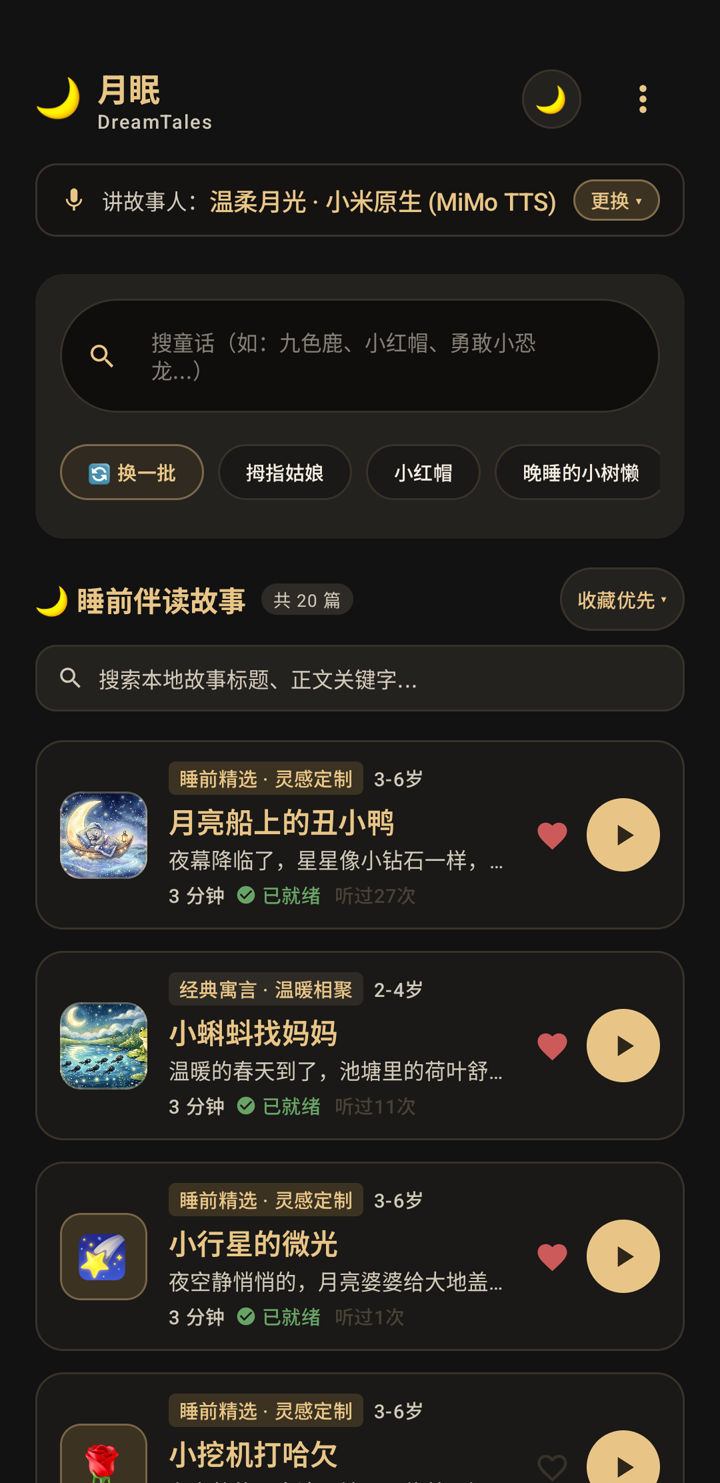
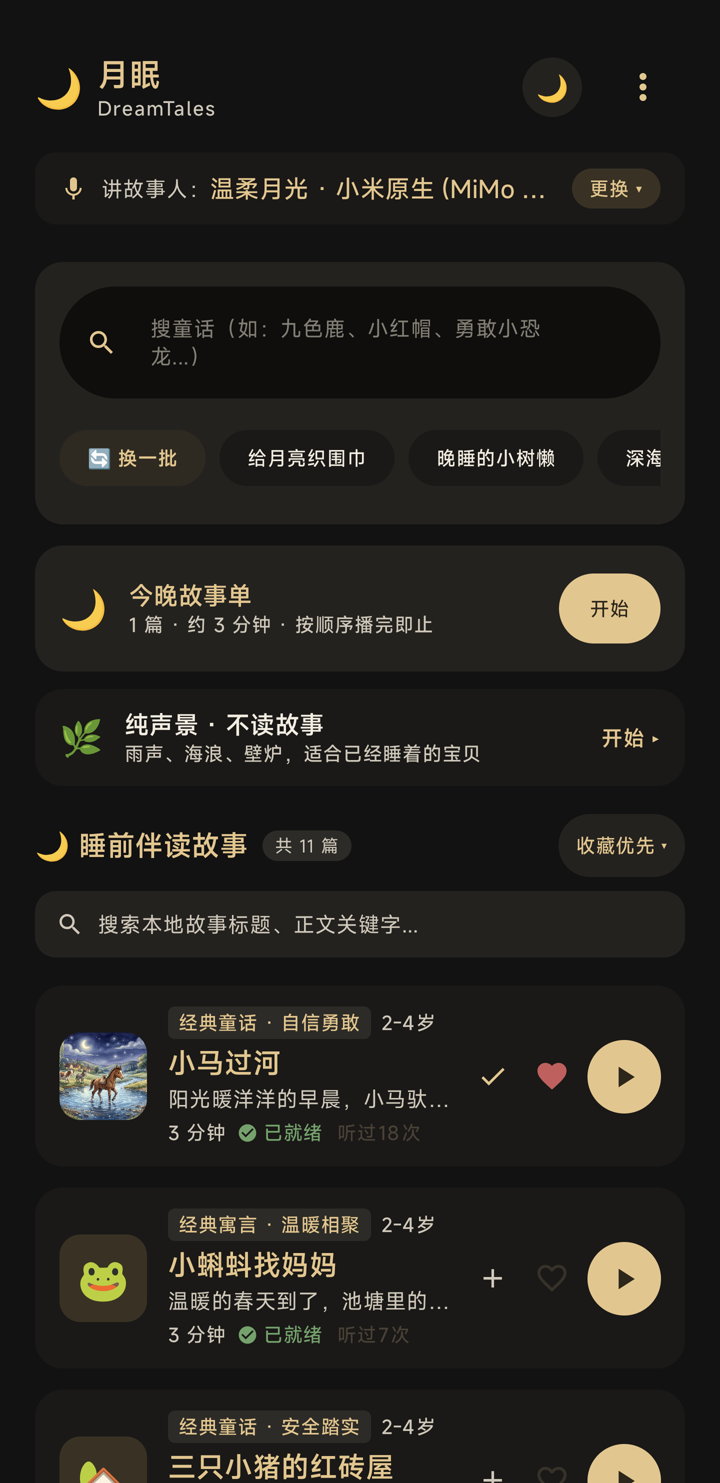
release: prepare 2.2.1 flat UI refresh
- bump version to 2.2.1 (14)
- remove card, chip, pill, button and search-field outlines app-wide
- update day/night home, player and about screenshots
- refresh README image cache bust

diff --git a/README.md b/README.md
@@ -1,6 +1,6 @@
 <div align="center">
 
-<img src="docs/images/splash.png?v=217" width="190" alt="月眠开屏" />
+<img src="docs/images/splash.png?v=221" width="190" alt="月眠开屏" />
 
 # 🌙 月眠 DreamTales
 
@@ -30,7 +30,7 @@
 
 | 首页 · 暖夜 | 首页 · 绘本米黄 | 沉浸式播放 | 关于 |
 | :---: | :---: | :---: | :---: |
-| <img src="docs/images/home-night.png?v=217" width="180" alt="首页夜间" /> | <img src="docs/images/home-day.png?v=217" width="180" alt="首页日间" /> | <img src="docs/images/player.png?v=217" width="180" alt="播放页" /> | <img src="docs/images/about.png?v=217" width="180" alt="关于页" /> |
+| <img src="docs/images/home-night.png?v=221" width="180" alt="首页夜间" /> | <img src="docs/images/home-day.png?v=221" width="180" alt="首页日间" /> | <img src="docs/images/player.png?v=221" width="180" alt="播放页" /> | <img src="docs/images/about.png?v=221" width="180" alt="关于页" /> |
 
 ## ✨ 核心功能
 
